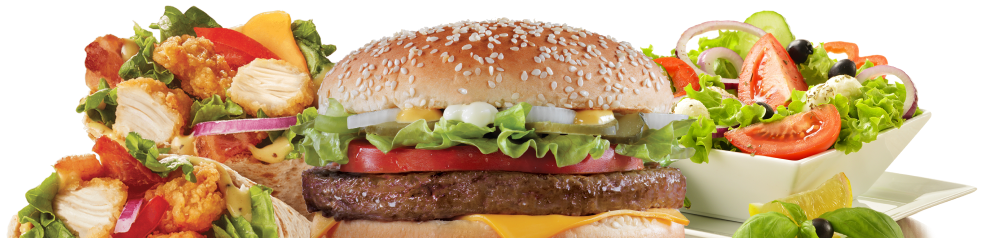
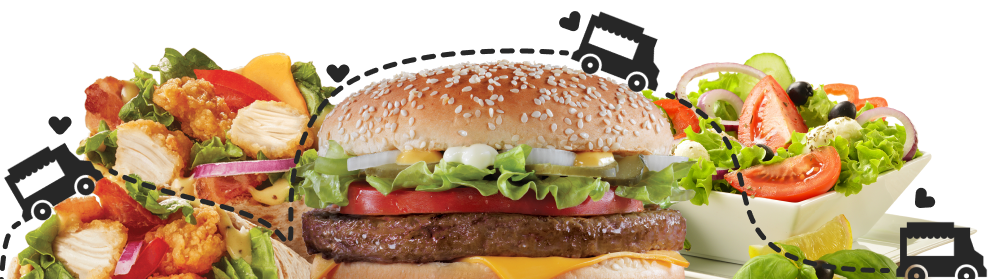
♻ add & change arts

diff --git a/index.html b/index.html
@@ -6,11 +6,13 @@
     <title>Loudelice - Foodtruck Normand aux menus variés</title>
     <link rel="shortcut icon" type="image/png" href="/favicon.png"/>
     <link rel="stylesheet" href="style.css">
+    <link rel="stylesheet" href="https://cdnjs.cloudflare.com/ajax/libs/font-awesome/4.7.0/css/font-awesome.min.css">
     <link href="https://cdnjs.cloudflare.com/ajax/libs/remixicon/3.2.0/remixicon.css" rel="stylesheet">
     <link rel="shortcut icon" href="/favicon.png" type="image/x-icon">
     <link href="https://fonts.googleapis.com/css2?family=Poppins:wght@400;600&display=swap" rel="stylesheet">
   </head>
   <body>
+    <button onclick="topFunction()" id="topBtn" title="Go to top">Retour en haut</button>
     <div class="container">
         <div class="header">
             <div class="brand">
@@ -21,13 +23,13 @@
                     <img src="public/images/logo-blanc.svg">
                 </div>
                 <div class="navbar-center">
-                    <a href="#">Horaires</a>
-                    <a href="#">A propos</a>
-                    <a href="#">Menu</a>
-                    <a href="#">Nous contacter</a>
+                    <a href="#menu">Menu</a>
+                    <a href="#planning">Horaires</a>
+                    <a href="#about">A propos</a>
+                    <a href="#contact">Nous contacter</a>
                 </div>
                 <div class="bouton">
-                  <button>Réserver</button>
+                  <button onclick="scrollToContact()">Réserver</button>
                 </div>
               </nav>
             <div class="info-header">
@@ -35,7 +37,7 @@
                 <p>Loudelice est un foodtruck qui offre une pause
                     de calme avec des plats simples et délicieux.</p>
                 <div class="bouton">
-                    <button>Réserver dès maintenant</button>
+                    <button onclick="scrollToContact()">Réserver dès maintenant</button>
                 </div>
                 <img src="public/images/food.png">
             </div>
@@ -44,19 +46,22 @@
             <h1>Commandez à emporter. Offrez à
             vos clients une nourriture variée.</h1>
             <div class="nbouton">
-                <button>Réserver dès maintenant</button>
+                <button onclick="scrollToContact()">Réserver dès maintenant</button>
             </div>
         </div>
-        <div class="menus">
+        <div class="menus" id="menu">
             <h1>3 menus pour remplir votre estomac.</h1>
             <p>Choisissez parmi les plats innombrables 
                 français et italiens et laissez-vous tenter.</p>
             <div class="bouton">
-                <button>Réserver dès maintenant</button>
+                <button onclick="scrollToContact()">Réserver dès maintenant</button>
             </div>
             <img src="public/images/menus.png">
         </div>
-        <div class="map">
+        <div class="map" id="planning">
+            <div class="stickers">
+                <img src="public/images/stickers.svg">
+            </div>
             <img src="public/images/map.png">
             <div class="map-info">
                 <h2>Retrouvez nous en ville !</h2>
@@ -77,7 +82,7 @@
                 </div>
             </div>
         </div>
-        <div class="carte">
+        <div class="carte" id="about">
             <div class="carte-info">
                 <h2>Un foodtruck avec une carte variée</h2>
                 <p>D’innombrables plats français et italiens.
@@ -87,7 +92,7 @@
                     gâteaux préparés avec amour vous rassasieront
                     pendant la pause.</p>
                 <div class="nbouton">
-                    <button>Réserver</button>
+                    <button onclick="scrollToContact()">Réserver</button>
                 </div>
             </div>
             <img src="public/images/plate.png">
@@ -105,11 +110,14 @@
                     autres jours, nous serions heureux de vous 
                     servir.</p>
                 <div class="nbouton">
-                    <button>Réserver</button>
+                    <button onclick="scrollToContact()">Réserver</button>
                 </div>
             </div>
         </div>
-        <form>
+        <form id="contact">
+            <div class="stickers_">
+                <img src="public/images/stickers_.svg">
+            </div>
             <div class="form-info">
                 <h2>Réservez, n'attendez plus.</h2>
                 <p>Envoyez nous un message ou contactez nous au 06 34 08 80 72</p>    
@@ -140,7 +148,7 @@
                 <button type="submit">Envoyer le message</button>
             </div>
         </form>
-        <div class="footer">
+        <div class="footer" id="footer">
             <div class="topfooter">
                 <img src="public/images/logo.svg">
                 <div class="links">
@@ -165,5 +173,28 @@
             </div>
         </div>
     </div>
-  </body>
+    <script>
+        function scrollToContact() {
+          var element = document.getElementById("contact");
+          element.scrollIntoView({ behavior: "smooth" });
+        }
+
+        var mybutton = document.getElementById("topBtn");
+
+        window.onscroll = function() {scrollFunction()};
+
+        function scrollFunction() {
+        if (document.body.scrollTop > 600 || document.documentElement.scrollTop > 600) {
+            mybutton.style.display = "block";
+        } else {
+            mybutton.style.display = "none";
+        }
+        }
+
+        function topFunction() {
+        document.body.scrollTop = 0;
+        document.documentElement.scrollTop = 0;
+        }
+    </script>
+    </body>
 </html>

diff --git a/style.css b/style.css
@@ -2,6 +2,10 @@
        margin: 0; 
     }
     
+    html {
+      scroll-behavior: smooth;
+    }
+    
     body {
     font-family: 'Poppins', sans-serif;
     display: flex;
@@ -329,9 +333,37 @@
   }
 
 
+  #topBtn {
+    display: none; /* Hide the button initially */
+    position: fixed;
+    bottom: 20px;
+    right: 30px;
+    z-index: 99;
+    border: none;
+    outline: none;
+    background-color: #F8854A;
+    color: white;
+    cursor: pointer;
+    font-family: Poppins, sans-serif;
+    padding: 15px;
+    border-radius: 100px;
+  }
+  
+  #topBtn:hover {
+    background-color: #e1743e;
+  }
 
+  .stickers {
+    position: absolute;
+    right: 0;
+    z-index: 1;
+  }
 
-
+  .stickers_ {
+    position: absolute;
+    left: 0;
+    z-index: 1;
+  }
 
 
   @media only screen and (max-width: 800px) {
@@ -409,7 +441,7 @@
         margin-bottom: 30px;
         gap: 30px;
       }
-    
+      
       .map-info {
         width: 100%;
         display: flex;
@@ -539,6 +571,10 @@
       display: flex;
       flex-direction: column;
       gap: 3px;
+    }
+
+    .stickers, .stickers_ {
+      display: none;
     }
 
 }
